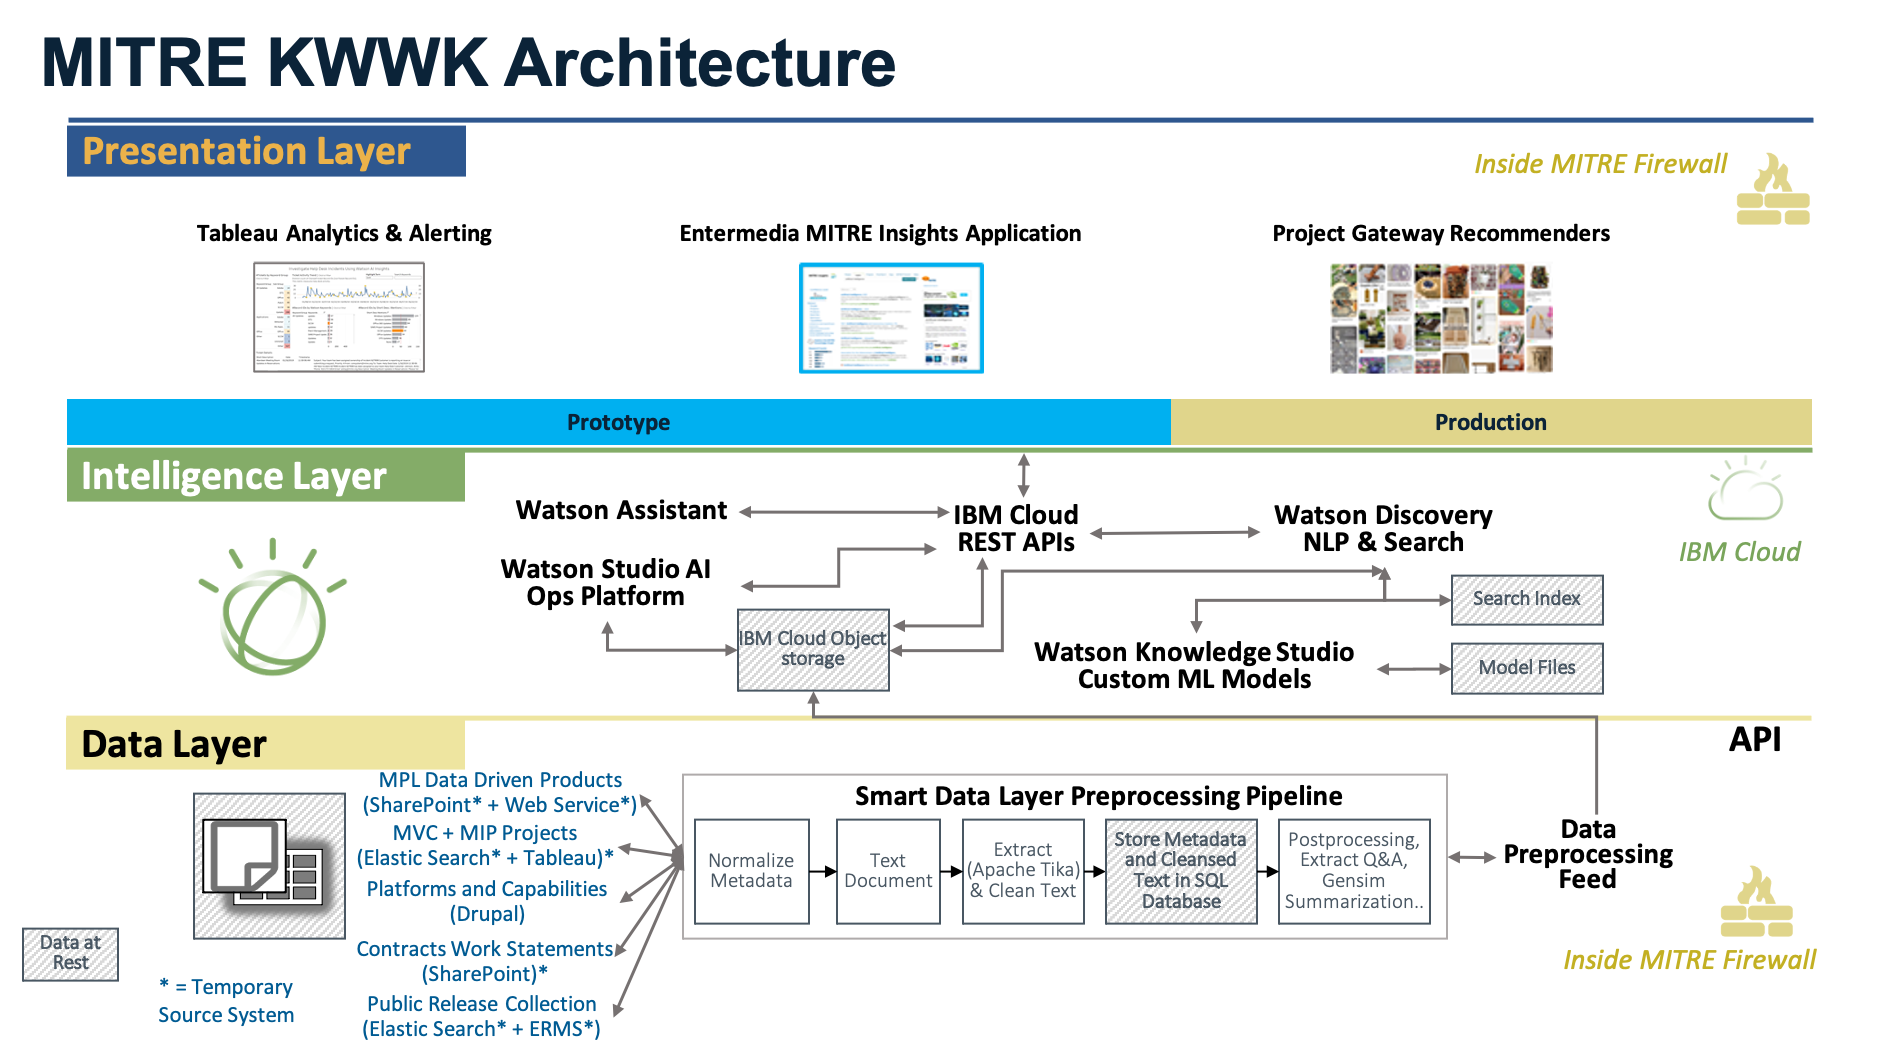
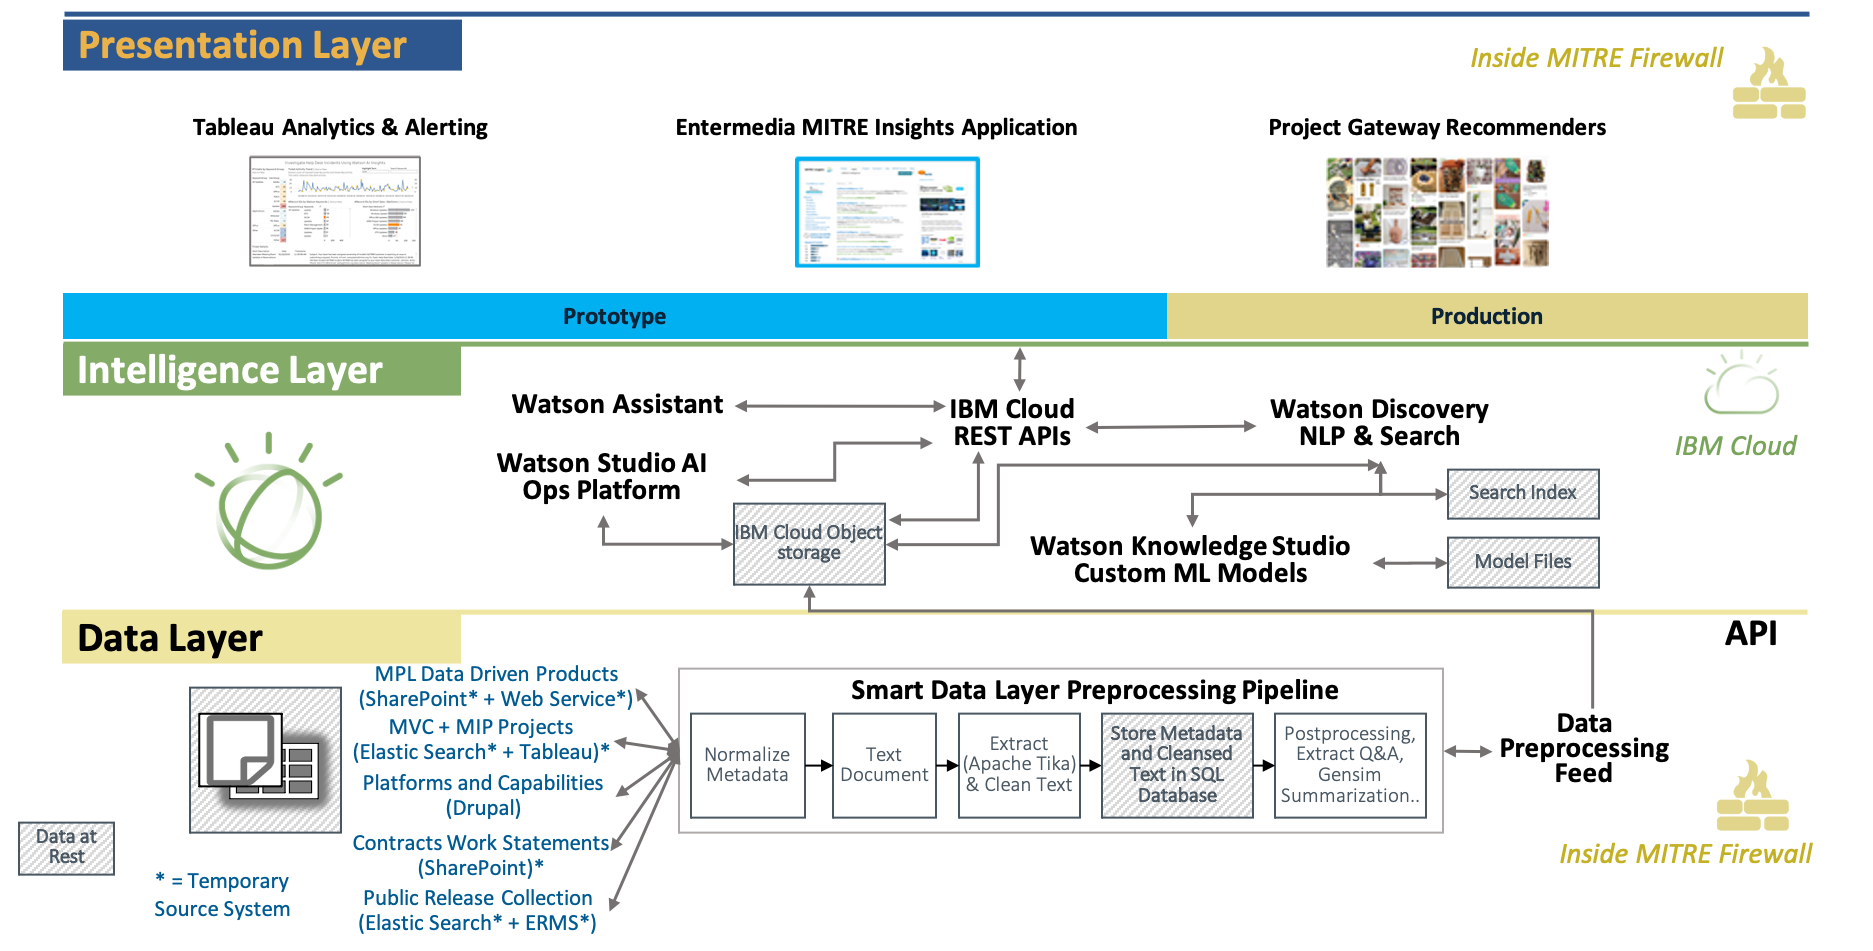
Update header sizing on home and about pages, architecture image, and badge color on homepage

diff --git a/webapp/WEB-INF/base/insights/app/about/index.html b/webapp/WEB-INF/base/insights/app/about/index.html
@@ -70,6 +70,7 @@
         <p>We combine commercial AI cloud services with best of breed open source tools and Semantic Web technologies to manage the AI lifecycle, share AI artifacts and deliver AI services that can converse with us in natural language, interpret our needs, and provide quick answers our questions</p>
         <p>Semantic Web technologies are unique in their ability to represent rich relations in powerful, easily extensible W3C standards. By capturing relations between entities like organizations, people, topic areas, and locations, this highly interconnected graph provides a cross-sectional view of the enterprise uncovering new insights not previously possible without locating and reading the content from multiple sources. Encoding our graphs using W3C standards also makes them compatible with a large cache of shared vocabularies, data sets, and tools that can further enrich potential use cases and facilitate reuse.</p>
 
+        <h2>MITRE KWWK Architecture FY 2020</h2>
         <img src="/insights/app/theme/images/kwwk-architecture.png" alt="KWWK Architecture Diagram FY 2020" class="img-fluid" />
     </div>
 </div>

diff --git a/webapp/WEB-INF/base/insights/app/theme/styles/theme.css b/webapp/WEB-INF/base/insights/app/theme/styles/theme.css
@@ -5848,8 +5848,11 @@ h3.modal-insight-datatype {
 .homepagecenter {
     margin-bottom: auto;
 }
-.homepagecenter a {
+.homepagetextblock a {
     color: #005B94;
+}
+.homepagetextblock h2 {
+    font-size: 1.1rem;
 }
 .twocolumn {
     column-count: 2;

diff --git a/webapp/WEB-INF/base/insights/app/about/about.css b/webapp/WEB-INF/base/insights/app/about/about.css
@@ -4,3 +4,12 @@
     left: 0;
     width: 100%;
 }
+.mediaappcontent .col-content-main {
+    margin-top: 140px;
+}
+h1 {
+    font-size: 1.5rem;
+}
+h2 {
+    font-size: 1.1rem;
+}
